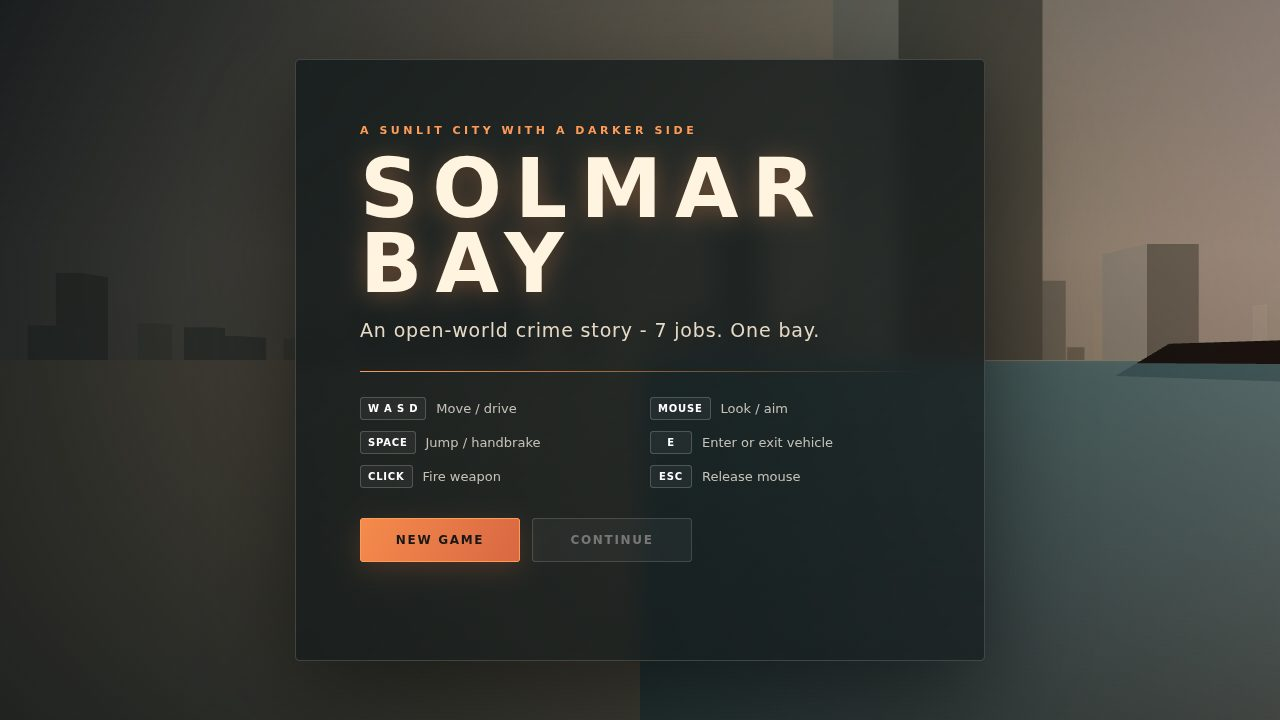
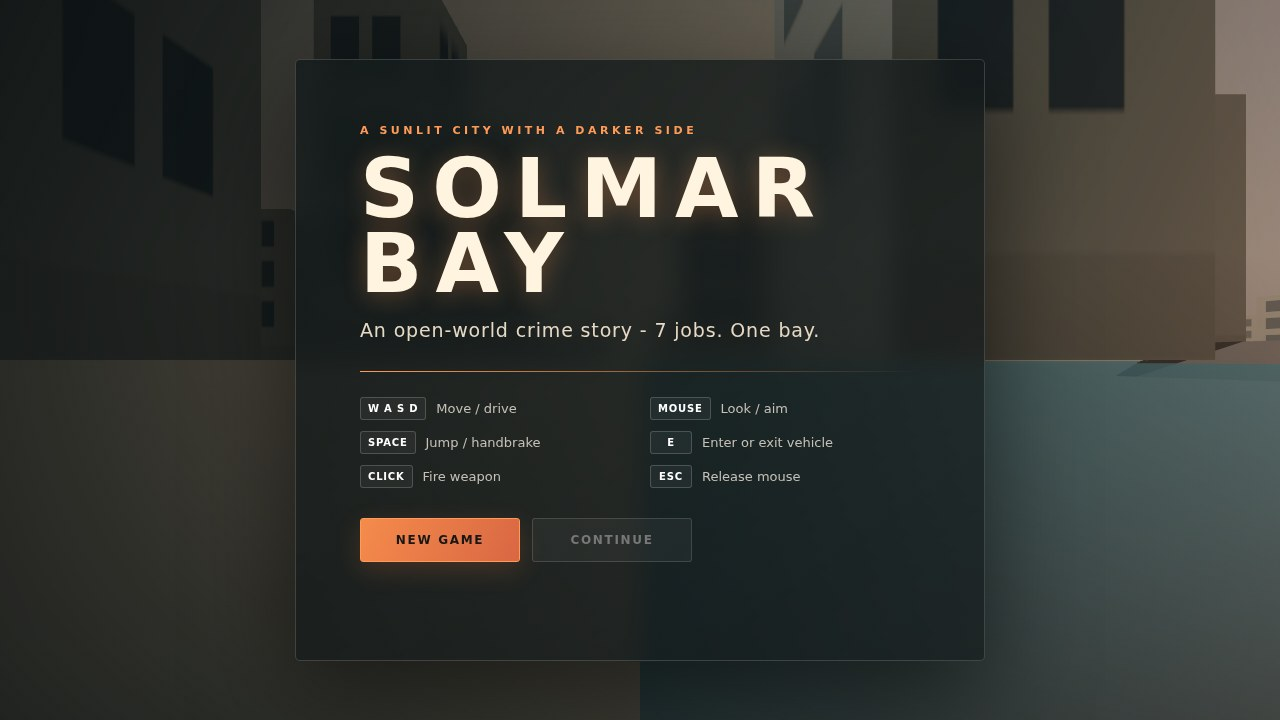
SOLMAR BAY: staged screenshots, road/normal merge fix, facade windows, denser downtown, mission HUD keys, authored entrypoint

diff --git a/game/src/city.js b/game/src/city.js
@@ -61,6 +61,26 @@ export class World {
     });
   }
 
+  /** Procedural stucco facade with repeating windows for buildings. */
+  _facadeTexture() {
+    return this._texture('facade', 128, 128, (g, w, h) => {
+      g.fillStyle = this.rng.pick(['#d8cfc2', '#c9bfae', '#e0d6c6', '#b9ad98', '#cbbfae']);
+      g.fillRect(0, 0, w, h);
+      const windowWidth = 30;
+      const windowHeight = 22;
+      const gapX = 14;
+      const gapY = 12;
+      for (let row = 0; row < 3; row++) {
+        for (let col = 0; col < 2; col++) {
+          g.fillStyle = this.rng.float() < 0.12 ? '#ffd98c' : '#3a4652';
+          g.fillRect(18 + col * (windowWidth + gapX), 10 + row * (windowHeight + gapY), windowWidth, windowHeight);
+        }
+      }
+      g.fillStyle = '#a99d89';
+      g.fillRect(0, h - 12, w, 12);
+    });
+  }
+
   /** Main build entry; called once from main boot. */
   build() {
     this.makeGroundAndWater();
@@ -215,13 +235,23 @@ export class World {
   _manualMerge(parts) {
     const { T } = this;
     const pos = [];
+    const norm = [];
     const uv = [];
     const idx = [];
+    let hasNormals = true;
     let base = 0;
     for (const p of parts) {
       const pp = p.attributes.position;
       for (let i = 0; i < pp.count; i++) {
         pos.push(pp.getX(i), pp.getY(i), pp.getZ(i));
+      }
+      const normal = p.attributes.normal;
+      if (normal) {
+        for (let i = 0; i < normal.count; i++) {
+          norm.push(normal.getX(i), normal.getY(i), normal.getZ(i));
+        }
+      } else {
+        hasNormals = false;
       }
       const uvA = p.attributes.uv;
       for (let i = 0; i < uvA.count; i++) {
@@ -235,8 +265,10 @@ export class World {
     }
     const g = new T.BufferGeometry();
     g.setAttribute('position', new T.Float32BufferAttribute(pos, 3));
+    if (hasNormals) g.setAttribute('normal', new T.Float32BufferAttribute(norm, 3));
     g.setAttribute('uv', new T.Float32BufferAttribute(uv, 2));
     g.setIndex(idx);
+    if (!hasNormals) g.computeVertexNormals();
     return g;
   }
 
@@ -248,19 +280,28 @@ export class World {
     const step = this.config.cityStep;
     const rng = this.rng;
     const palette = ['#d8cfc2', '#c9bfae', '#e0d6c6', '#b9ad98', '#cbbfae'];
+    const facade = this._facadeTexture();
+    facade.wrapS = facade.wrapT = T.RepeatWrapping;
+    facade.repeat.set(1, 1);
 
     for (let x = -half; x < half; x += step) {
       for (let z = -half; z < half; z += step) {
         // Leave a void along the beach boulevard strip.
         if (Math.abs(z - (x * 0.6 + 120)) < 30) continue;
-        if (rng.float() < 0.35) continue; // keep some open lots
-        const w = rng.float(8, 18);
-        const d = rng.float(8, 18);
-        const h = rng.float(6, 40);
+        if (rng.float() < 0.15) continue; // keep some open lots
+        const w = rng.float(14, 28);
+        const d = rng.float(14, 28);
+        const cellCenterDistance = Math.hypot(x + step / 2, z + step / 2);
+        const h = cellCenterDistance < 180 ? rng.float(35, 85) : rng.float(8, 30);
         const geo = new T.BoxGeometry(w, h, d);
-        geo.translate(x + rng.float(-4, 4), h / 2, z + rng.float(-4, 4));
+        const jitterX = rng.float(-4, 4);
+        const jitterZ = rng.float(-4, 4);
+        const cx = x + jitterX;
+        const cz = z + jitterZ;
+        geo.translate(cx, h / 2, cz);
         const mat = new T.MeshStandardMaterial({
-          color: rng.pick(palette),
+          map: facade,
+          color: 0xffffff,
           roughness: 0.9,
           metalness: 0.05,
         });
@@ -269,8 +310,8 @@ export class World {
         mesh.receiveShadow = true;
         this.ctx.scene.add(mesh);
         this.colliders.push({
-          min: [mesh.position.x - w / 2, 0, mesh.position.z - d / 2],
-          max: [mesh.position.x + w / 2, h, mesh.position.z + d / 2],
+          min: [cx - w / 2, 0, cz - d / 2],
+          max: [cx + w / 2, h, cz + d / 2],
         });
         parts.push(geo);
       }

diff --git a/main.ts b/main.ts
@@ -1,16 +1,7 @@
-// A working gta6-01 entry (Node 22, standard library only): the game is this directory's
-// game/ folder, plain static files a desktop browser loads offline (game/index.html and its ES
-// modules, no library and no network request), and the program hands it in. It copies game/ and
-// screenshots/ from beside this file to /output and writes /output/dossier.json, the summary the
-// judge reads, with the vendored make.fun library. Only the plumbing, not an open world: Block
-// Dodger, a plain 2D canvas game where a paddle dodges falling blocks and catches coins, with a
-// title screen, score, lives and levels, game over and restart, flat colours and no sound. Build
-// your own open-world crime game in its place (three.js or any library you vendor under game/),
-// put your 3 or 4 PNG or JPEG screenshots in screenshots/ (the first by name is the cover) and run it.
-//
-// Serve it locally with `node serve.ts`, then open http://localhost:8080.
-// Outside the grader's container, MAKEFUN_OUTPUT_DIR stands in for /output:
-//   mkdir -p out && MAKEFUN_OUTPUT_DIR=out node main.ts
+// SOLMAR BAY is an original open-world crime game.
+// This entry copies its game and screenshots into the make.fun output directory.
+// It also writes the dossier used to describe the submitted game.
+// Set MAKEFUN_OUTPUT_DIR to choose a local output directory outside the grader.
 
 import { cpSync, existsSync, mkdirSync, writeFileSync } from 'node:fs';
 import { join } from 'node:path';
@@ -39,3 +30,5 @@ writeFileSync(
     game_path_max_bytes: 1000,
   }),
 );
+
+console.log('SOLMAR BAY entry written to', out);

diff --git a/game/src/missions.js b/game/src/missions.js
@@ -45,9 +45,9 @@ export class Missions {
     const m = this.items.find(x => x.id === id);
     if (!m || this.done.has(id) || this.activeMission) return false;
     this.activeMission = { data: m, stage: 0, elapsed: 0, wave: 0, target: null };
-    this.ctx.state.mission = m.name;
+    this.ctx.state.mission = m;
     if (m.type === 'steal' || m.type === 'chase') this._spawnTarget(m);
-    this._objective(m.objective || m.description || m.name);
+    this._objective(m.objective || m.brief || m.description || m.title);
     return true;
   }
 
@@ -123,7 +123,7 @@ export class Missions {
     if (!this.dialog) {
       const box = document.createElement('div');
       box.style.cssText = 'position:fixed;left:24px;bottom:24px;background:#17130fdd;color:white;padding:14px 18px;font:16px sans-serif;z-index:900;max-width:360px';
-      box.textContent = `${m.giverName || m.contact || 'Solmar Bay'}: ${m.dialogue || m.description || m.name}  [E]`;
+      box.textContent = `${m.giverName || m.contact || m.giver || 'Solmar Bay'}: ${m.dialogue || m.brief || m.description || m.title}  [E]`;
       document.body.appendChild(box);
       this.dialog = box;
     }

diff --git a/game/src/hud.js b/game/src/hud.js
@@ -106,7 +106,7 @@ export class Hud {
     this.nodes['hud-speed'].style.display = car ? 'block' : 'none';
     this.nodes['hud-speed'].innerHTML = car ? `${speed} <small>KM/H</small><br><small>${car.name || car.type || 'VEHICLE'}</small>` : '';
     const mission = s.mission || this.ctx.missions?.current;
-    this.nodes['hud-mission'].innerHTML = mission ? `<b>${mission.giver || mission.name || 'MISSION'}</b><br>${mission.objective || mission.text || ''}${mission.timeLeft != null ? `<br>${Math.ceil(mission.timeLeft)}s` : ''}` : '';
+    this.nodes['hud-mission'].innerHTML = mission ? `<b>${mission.giver || mission.name || 'MISSION'}</b><br>${mission.objective || mission.brief || mission.text || ''}${mission.timeLeft != null ? `<br>${Math.ceil(mission.timeLeft)}s` : ''}` : '';
     const dialog = this.ctx.missions?.dialog;
     this.nodes['hud-dialog'].style.display = dialog ? 'block' : 'none';
     this.nodes['hud-dialog'].innerHTML = dialog ? `<b>${dialog.speaker || ''}</b><br>${dialog.text || dialog}<br><small>E TO CONTINUE</small>` : '';

diff --git a/game/src/main.js b/game/src/main.js
@@ -131,8 +131,10 @@ function init() {
   } else if (['play', 'chase', 'end'].includes(shot)) {
     try {
       state.mode = 'play'; ctx.input.setCapture(false); ctx.hud.showStart(true);
-      ctx.player.pos.set(0, 0, 20);
-       if (ctx.vehicles.spawnTraffic) ctx.vehicles.spawnTraffic(new T.Vector3(0, 0, 20));
+      ctx.player.pos.set(20, 0, 20);
+       if (ctx.vehicles.spawnTraffic) ctx.vehicles.spawnTraffic(new T.Vector3(20, 0, 20));
+       ctx.vehicles.spawnParked('sedan', new T.Vector3(28, 0, 8), 0);
+       ctx.vehicles.spawnParked('taxi', new T.Vector3(12, 0, 34), Math.PI);
       if (shot === 'chase' || shot === 'end') {
         state.wanted = shot === 'end' ? 2 : 3;
         ctx.police.heat = shot === 'end' ? 3 : 5;
